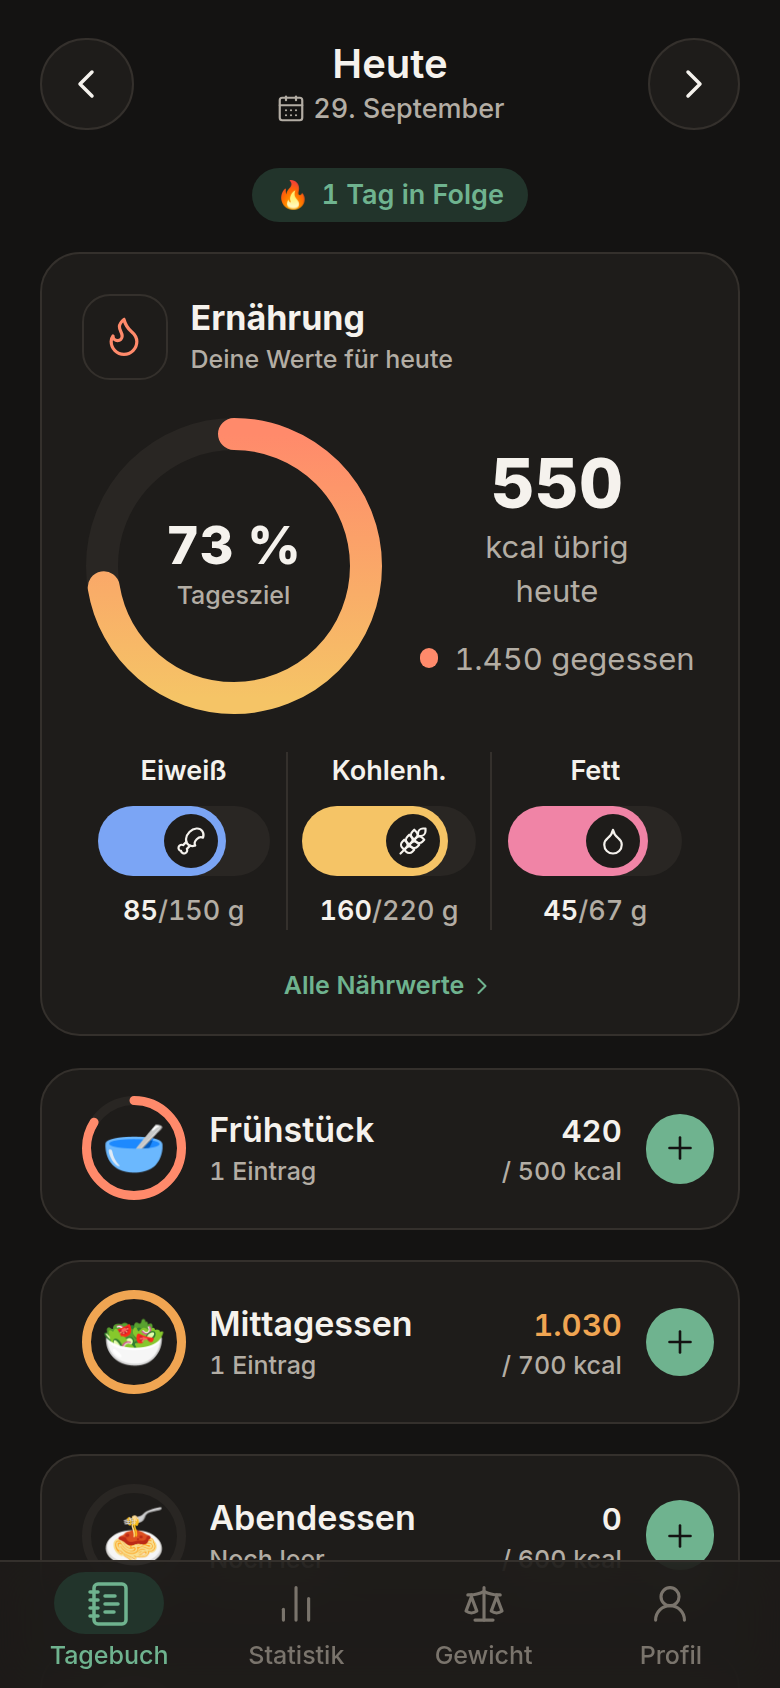
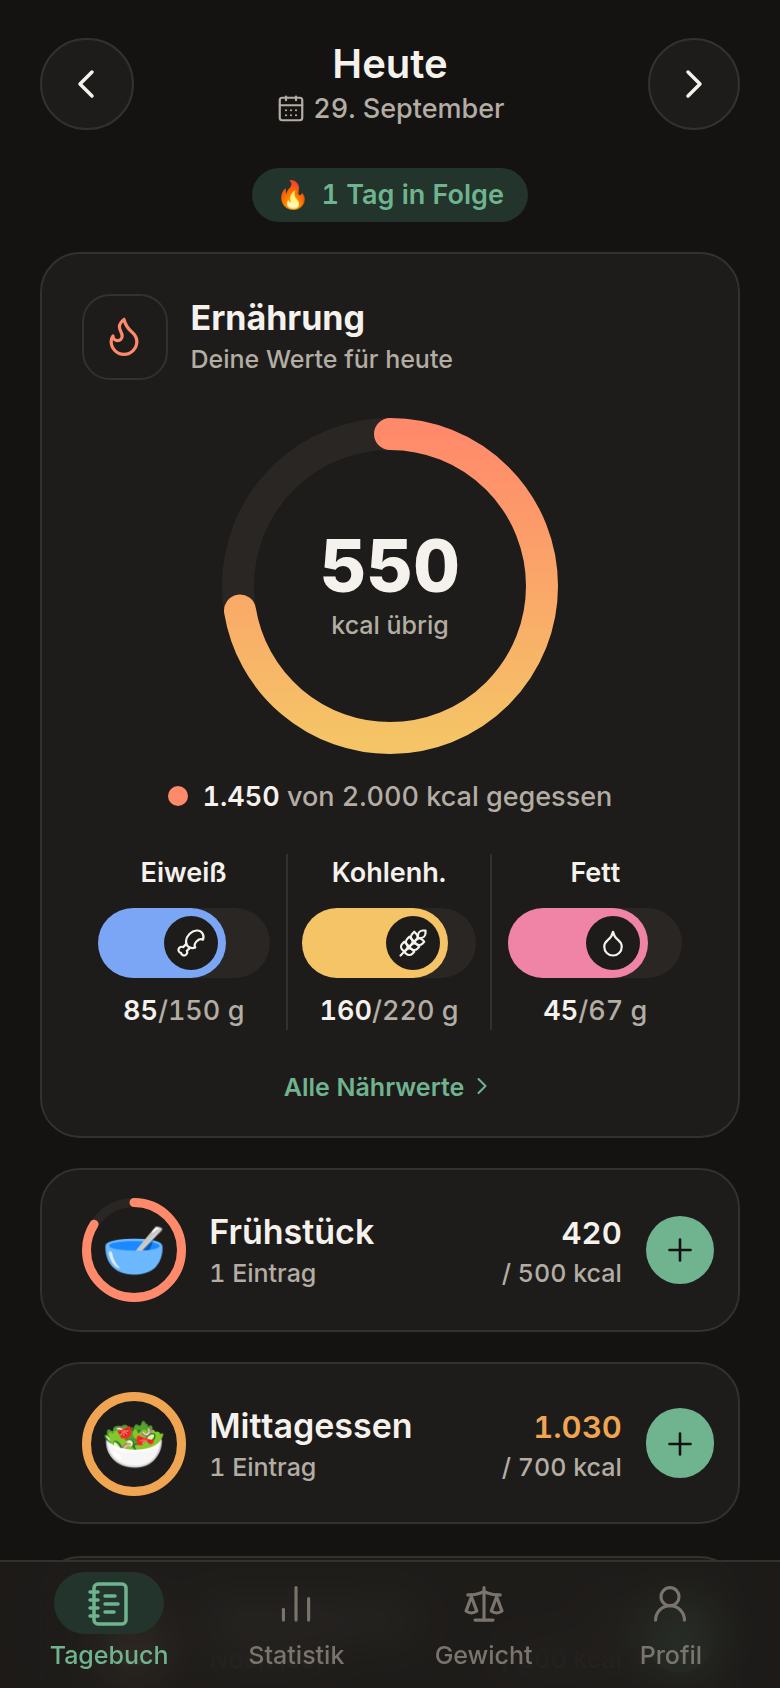
Übrige kcal im Ring, gegessen darunter, zentriert
Claude-Session: https://claude.ai/code/session_01MQq6zkv69hx8R1BwofdaT7

Changed region(s): [[0.0923, 0.2464, 0.8923, 0.9242], [0.6462, 0.6469, 0.8, 0.9242], [0.8308, 0.6469, 0.9231, 0.9242]]

diff --git a/src/app/(app)/page.tsx b/src/app/(app)/page.tsx
@@ -90,24 +90,16 @@ export default async function DiaryPage({ searchParams }: PageProps<"/">) {
               <p className="text-caption muted">Deine Werte für {isToday ? "heute" : "diesen Tag"}</p>
             </div>
           </div>
-          <div className="flex items-center justify-around gap-4">
+          <div className="flex flex-col items-center gap-3">
             <div data-ring>
               <GoalRing eaten={total.kcal} target={profile.kcalTarget} />
             </div>
-            <div className="min-w-0 text-center">
-              <p className={`text-[34px] font-extrabold leading-none tabular-nums ${total.kcal > profile.kcalTarget ? "text-warning" : ""}`}>
-                {fmt(Math.abs(profile.kcalTarget - total.kcal))}
-              </p>
-              <p className="mt-1 text-body leading-snug text-text-secondary">
-                {total.kcal > profile.kcalTarget ? "kcal über Ziel" : "kcal übrig"}
-                <br />
-                {isToday ? "heute" : "an diesem Tag"}
-              </p>
-              <p className="mt-3 flex items-center justify-center gap-2 text-label tabular-nums text-text-secondary">
-                <span aria-hidden className="h-2.5 w-2.5 rounded-full bg-accent-calories" />
-                {fmt(total.kcal)} gegessen
-              </p>
-            </div>
+            <p className="flex items-center gap-2 text-label tabular-nums text-text-secondary">
+              <span aria-hidden className="h-2.5 w-2.5 rounded-full bg-accent-calories" />
+              <span>
+                <span className="font-semibold text-text-primary">{fmt(total.kcal)}</span> von {fmt(profile.kcalTarget)} kcal gegessen
+              </span>
+            </p>
           </div>
           <div className="grid grid-cols-3 divide-x divide-border">
             <MacroPill label="Eiweiß" value={total.protein} target={profile.proteinTarget} color="bg-macro-protein" icon="protein" />

diff --git a/src/components/progress.tsx b/src/components/progress.tsx
@@ -25,9 +25,9 @@ export function ProgressBar({
   );
 }
 
-// Tagesziel-Ring: dicker Strich mit Verlauf, in der Mitte der Anteil am Ziel in Prozent.
+// Tagesziel-Ring: dicker Strich mit Verlauf, in der Mitte die übrigen kcal.
 // Überschreitung wie überall in warning.
-export function GoalRing({ eaten, target, size = 148 }: { eaten: number; target: number; size?: number }) {
+export function GoalRing({ eaten, target, size = 168 }: { eaten: number; target: number; size?: number }) {
   const stroke = 16;
   const r = (size - stroke) / 2;
   const pct = target > 0 ? eaten / target : 0;
@@ -59,8 +59,10 @@ export function GoalRing({ eaten, target, size = 148 }: { eaten: number; target:
         )}
       </svg>
       <div className="absolute inset-0 flex flex-col items-center justify-center text-center">
-        <span className={`text-[26px] font-extrabold leading-none tabular-nums ${over ? "text-warning" : ""}`}>{fmt(pct * 100)} %</span>
-        <span className="mt-1 text-caption text-text-secondary">Tagesziel</span>
+        <span className={`${fmt(Math.abs(target - eaten)).length > 4 ? "text-[30px]" : "text-[36px]"} font-extrabold leading-none tabular-nums ${over ? "text-warning" : ""}`}>
+          {fmt(Math.abs(target - eaten))}
+        </span>
+        <span className="mt-1 text-caption text-text-secondary">{over ? "kcal über Ziel" : "kcal übrig"}</span>
       </div>
     </div>
   );
